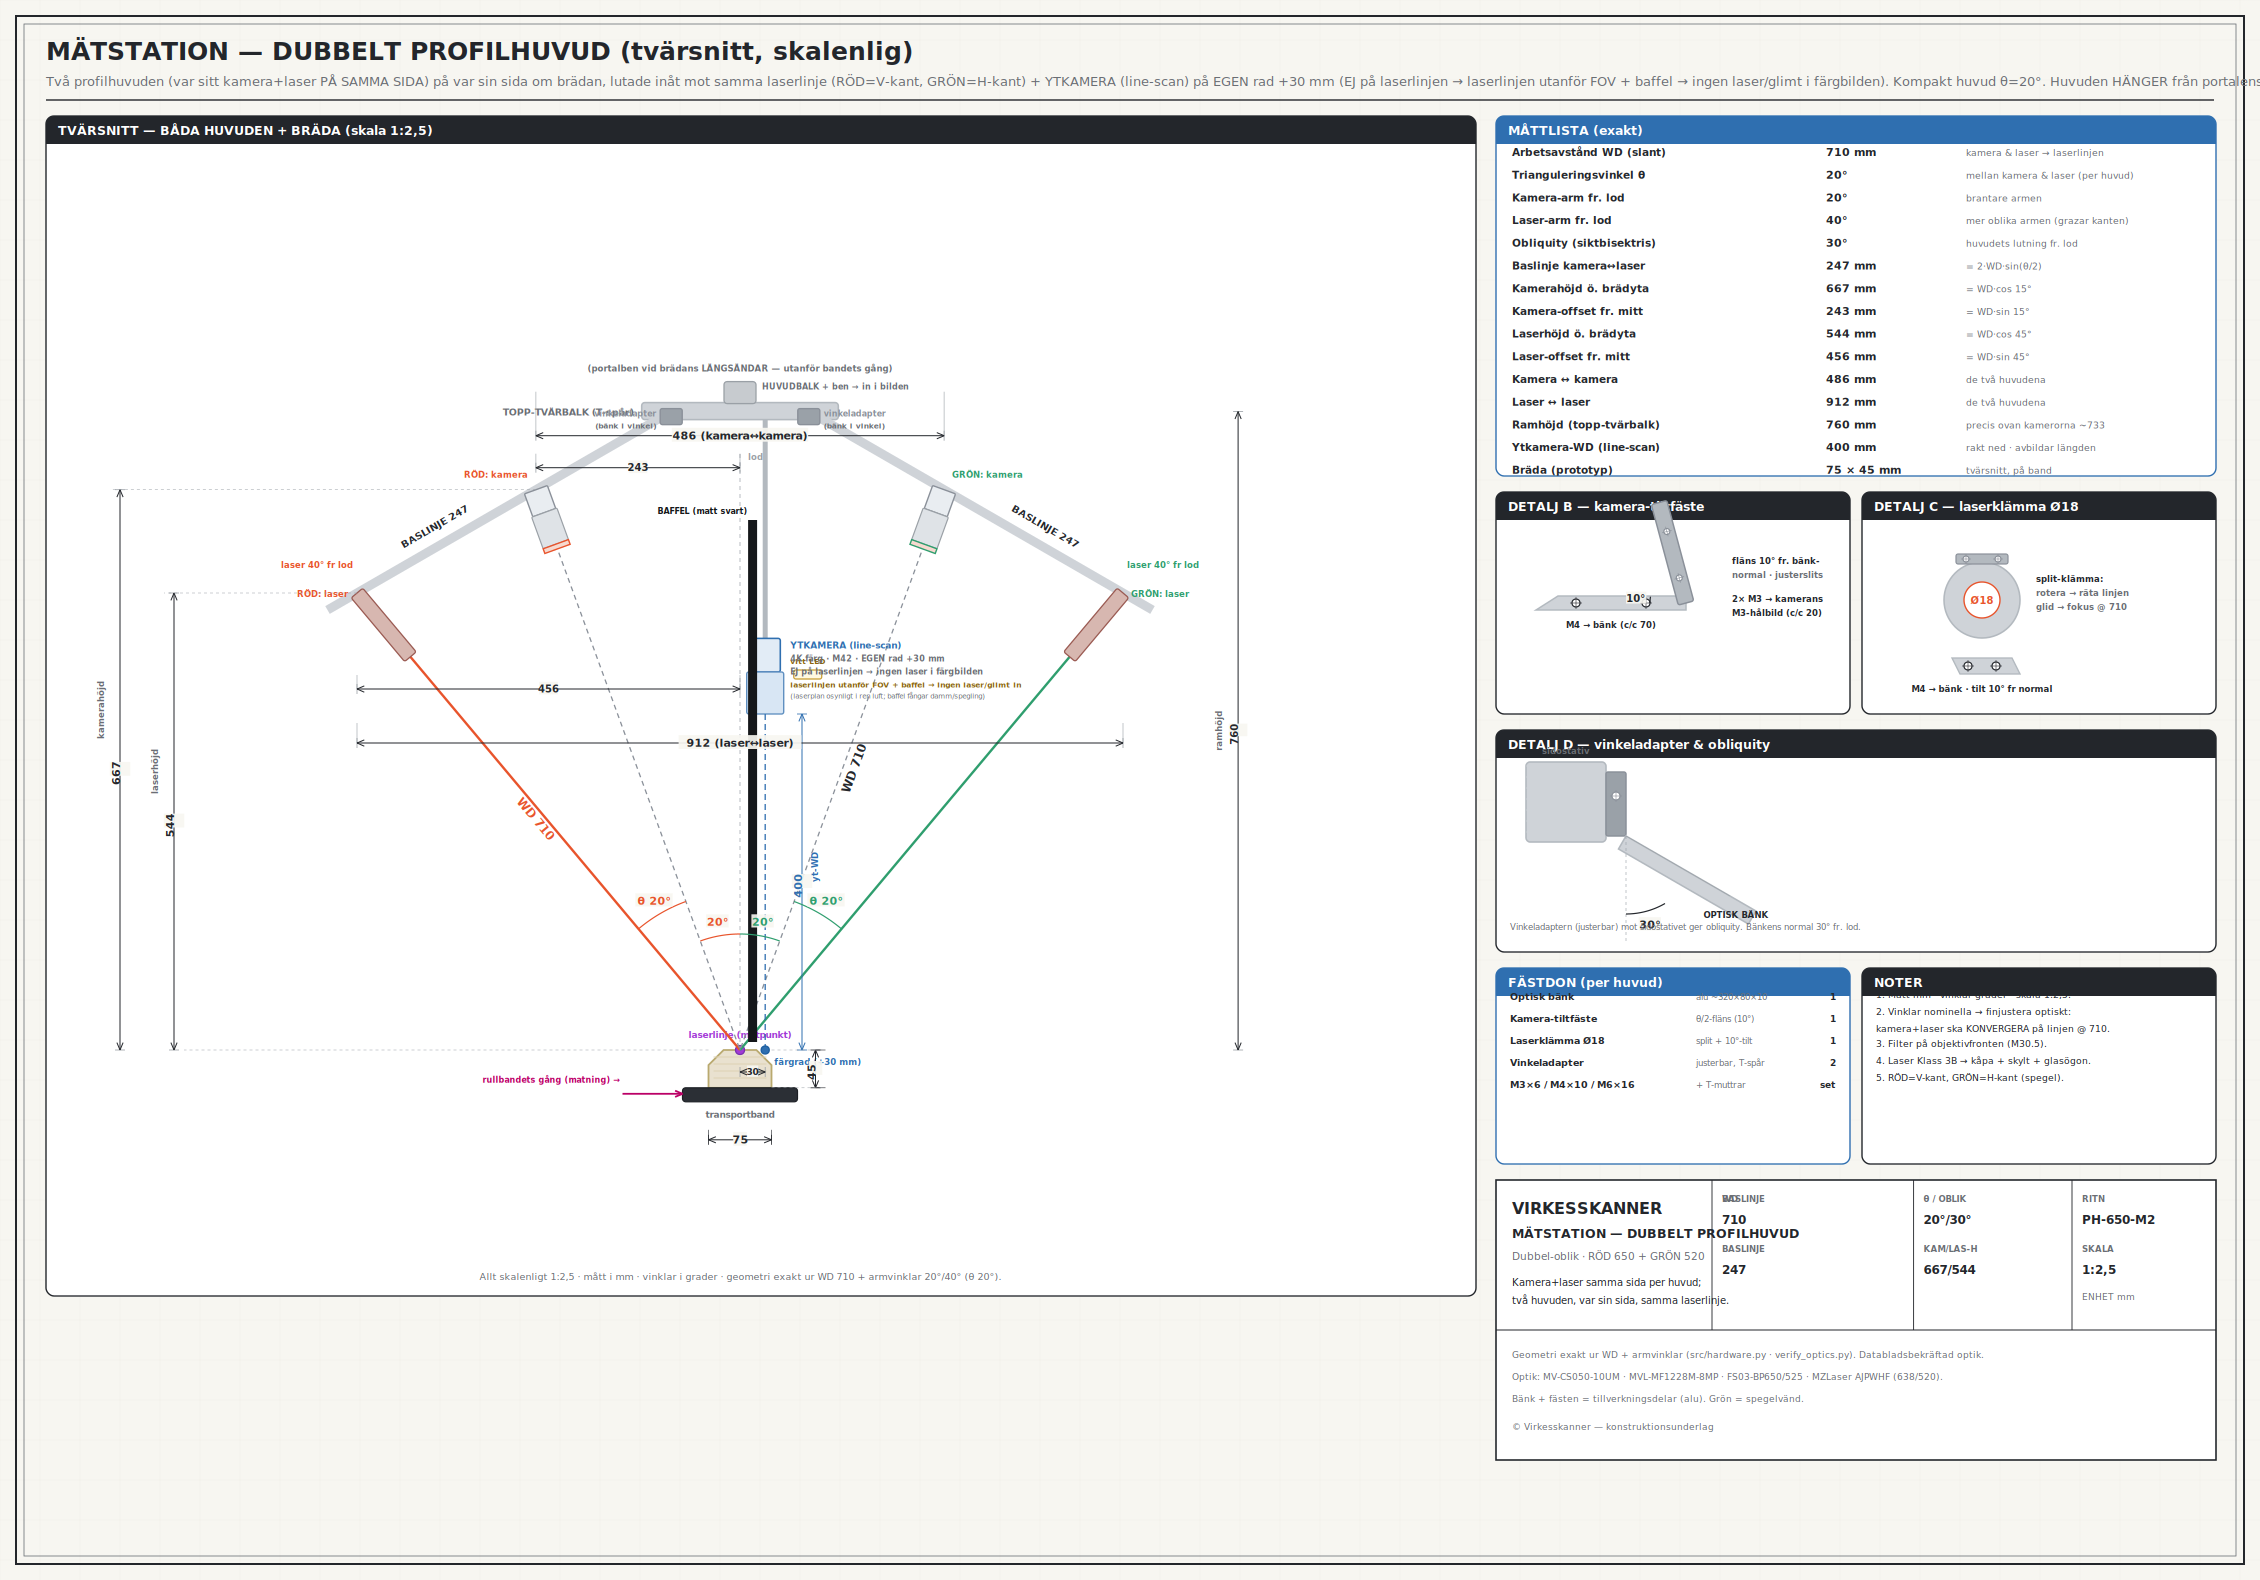
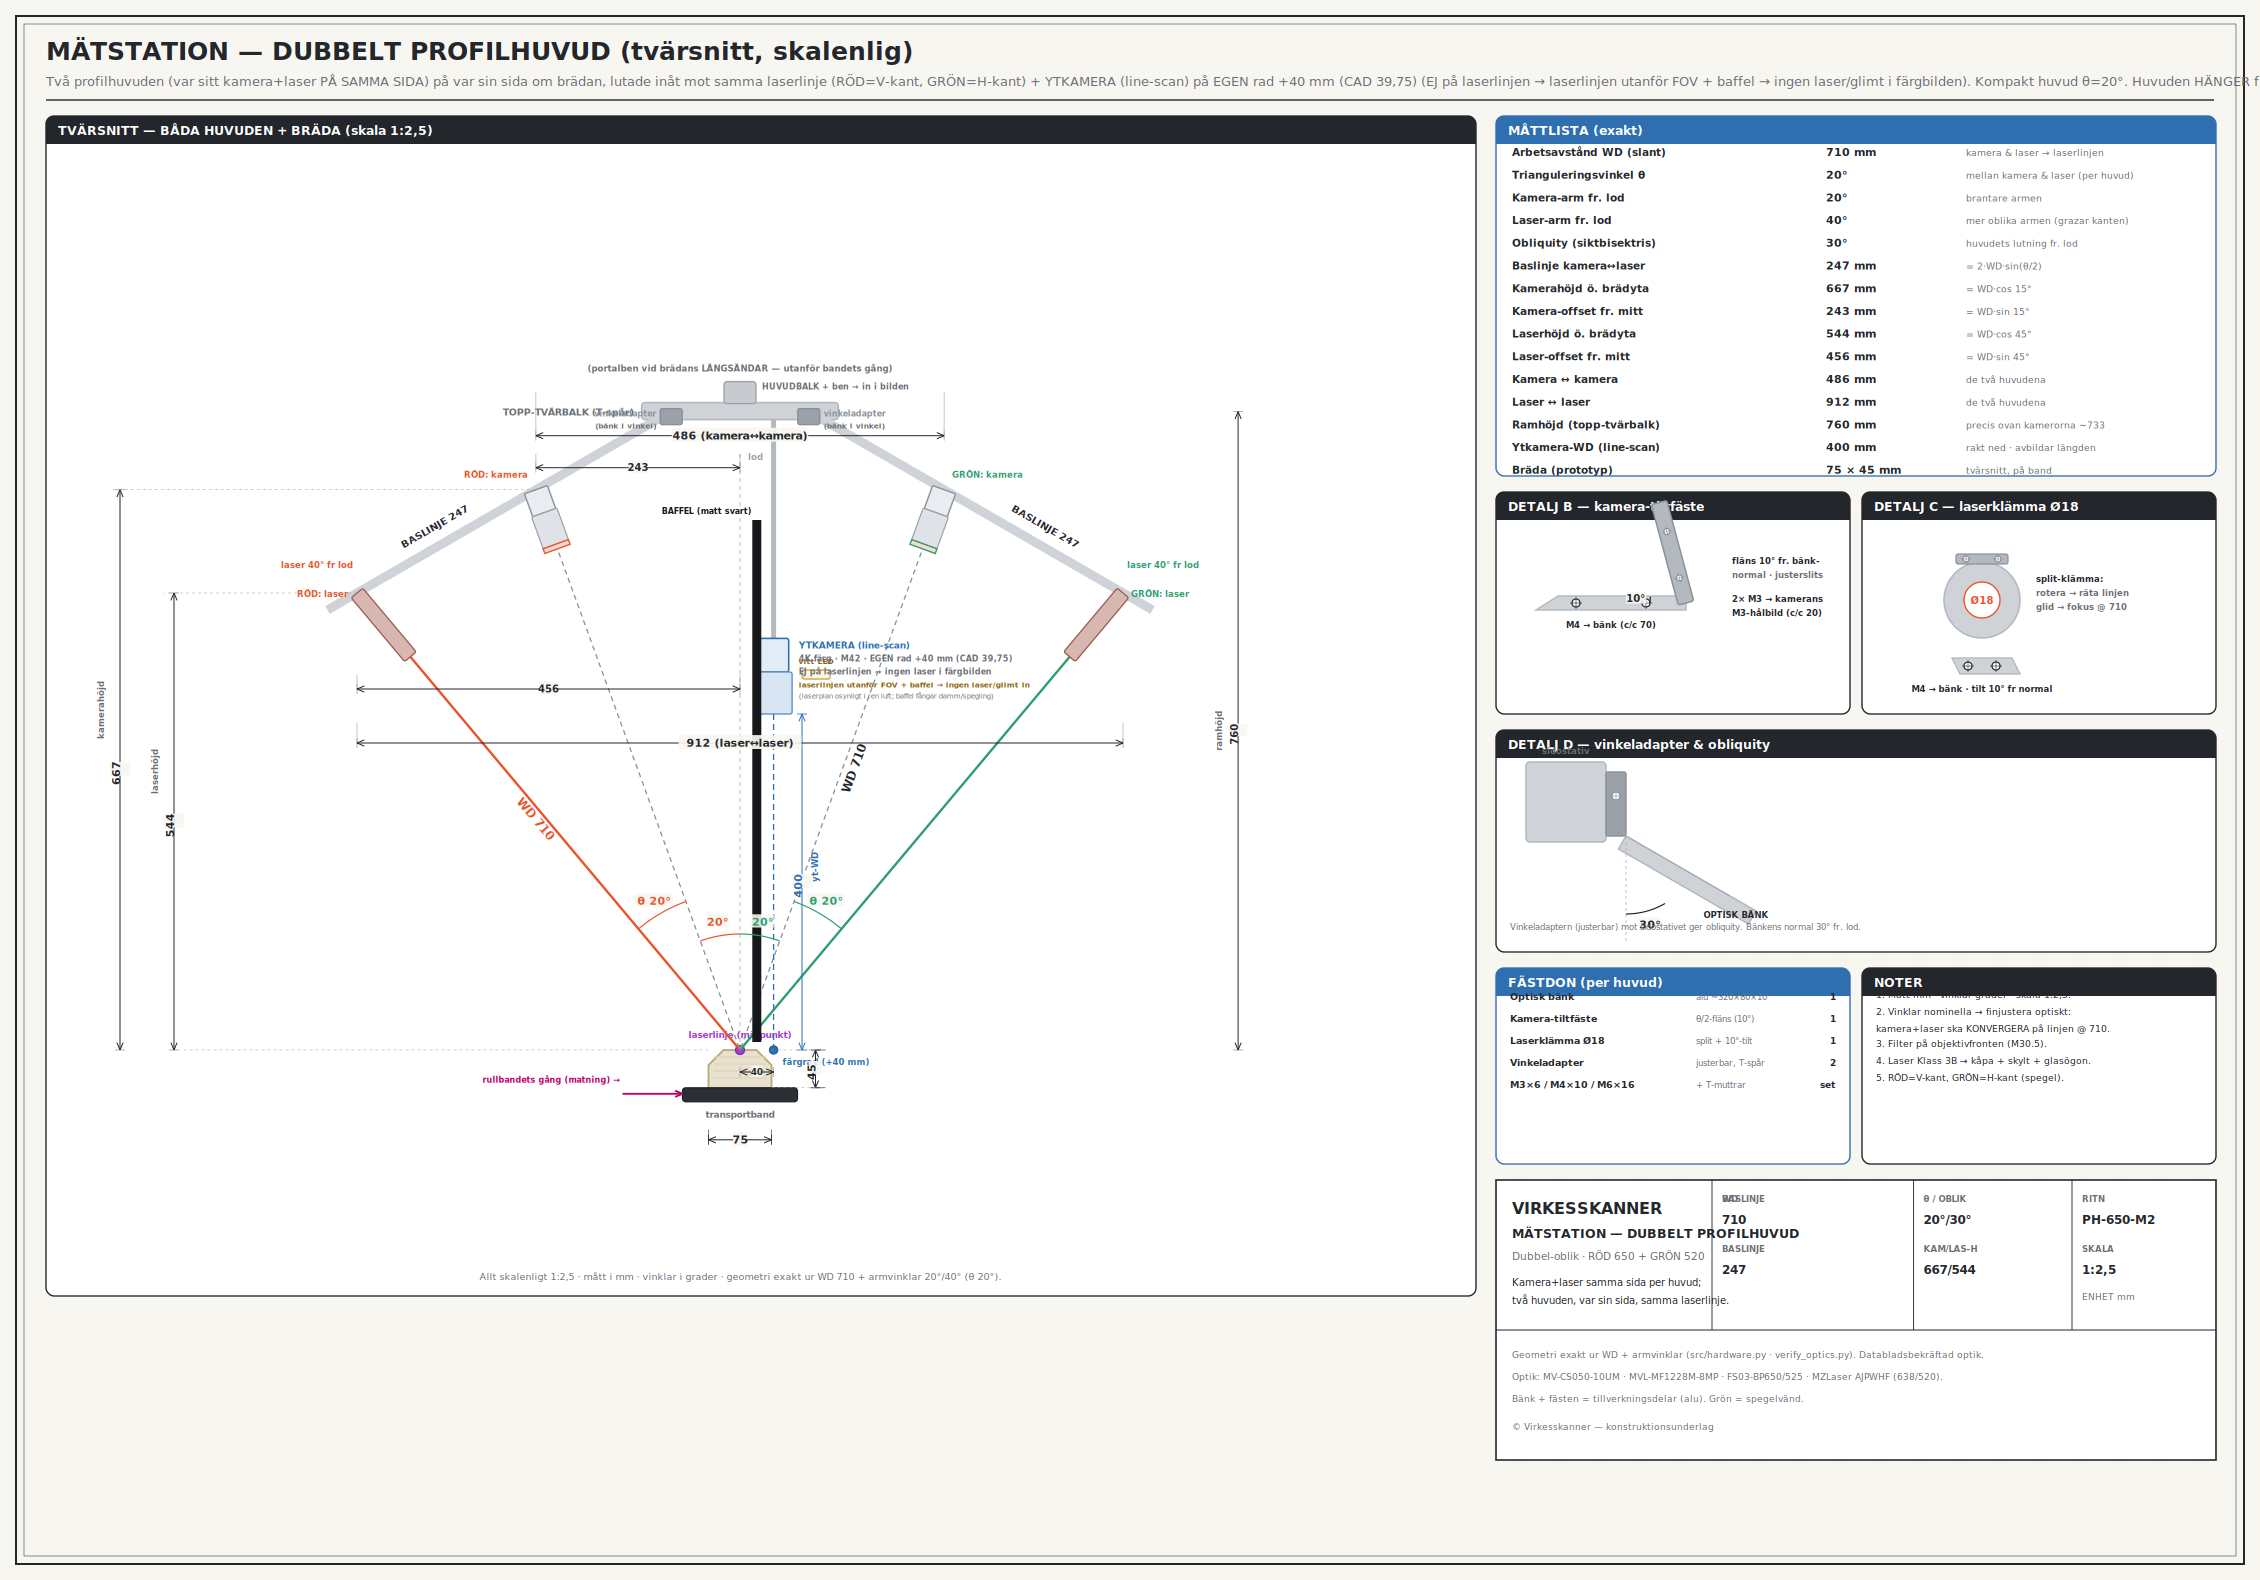
Färg-linjekamera-offset 30 → 40 mm (CAD som-byggt 39,75)
Användaren ökade ytkamerans offset från 30 till 39,75 mm i CAD för bättre
fäste/baffel-plats — bara bättre (mer marginal från laserlinjen + obliqua
strålar). Uppdaterat head-mech (COL_OFF 40, baffel/dim) och
position-subsystem (+40 mm, offset-mått) så ritningarna matchar CAD.

Changed region(s): [[0.3097, 0.3101, 0.4646, 0.6823], [0.5885, 0.031, 1.0, 0.062]]

diff --git a/tools/draw_head_mech.py b/tools/draw_head_mech.py
@@ -92,7 +92,7 @@ add('</g>')
 rect(16, 16, W-32, H-32, "none", INK, 2); rect(24, 24, W-48, H-48, "none", MUTED, 0.8)
 txt(46, 60, "MÄTSTATION — DUBBELT PROFILHUVUD  (tvärsnitt, skalenlig)", 25, "start", INK, 700, SANS)
 txt(46, 86, "Två profilhuvuden (var sitt kamera+laser PÅ SAMMA SIDA) på var sin sida om brädan, lutade inåt mot samma laserlinje "
-            "(RÖD=V-kant, GRÖN=H-kant) + YTKAMERA (line-scan) på EGEN rad +30 mm (EJ på laserlinjen → laserlinjen utanför FOV + baffel → ingen laser/glimt i färgbilden). Kompakt huvud θ=20°. Huvuden HÄNGER från portalens tvärbalk via VINKELADAPTER (åt var sin sida).", 13, "start", MUTED, 400, SANS)
+            "(RÖD=V-kant, GRÖN=H-kant) + YTKAMERA (line-scan) på EGEN rad +40 mm (CAD 39,75) (EJ på laserlinjen → laserlinjen utanför FOV + baffel → ingen laser/glimt i färgbilden). Kompakt huvud θ=20°. Huvuden HÄNGER från portalens tvärbalk via VINKELADAPTER (åt var sin sida).", 13, "start", MUTED, 400, SANS)
 line(46, 100, W-46, 100, INK, 1.4)
 
 # =================================================================== HUVUD-GA (skalenlig)
@@ -166,7 +166,7 @@ txt(glas[0]+8, glas[1]+4, "GRÖN: laser", 8.5, "start", GRN, 700)
 
 # ---- LINJEKAMERA (ytkamera) — EGEN rad, FÖRSKJUTEN +30 mm (EJ på laserlinjen) ----
 SURF_WD = 400
-COL_OFF = 30                                          # mm: färgraden förskjuten i feed (Y)
+COL_OFF = 40                                          # mm: färgraden förskjuten i feed (Y); CAD som-byggt 39,75
 lc = WS(COL_OFF, SURF_WD)                             # över färgraden, inte över laserlinjen
 cp = WS(COL_OFF, 0)                                   # färgkamerans EGNA mätpunkt på brädytan
 lcw, lcl, lld, lll = 36, 40, 44, 50                   # kamera-hus + M42-objektiv (mm)
@@ -176,12 +176,12 @@ rect(-lcw*S/2, -(lcl+lll)*S, lcw*S, lcl*S, "#e2ecf6", BLUE, 1.6, 2)        # kam
 rect(-lld*S/2, -lll*S, lld*S, lll*S, "#d8e6f4", "#5f8fc0", 1.4, 2)         # M42-objektiv
 add('</g>')
 line(lc[0], lc[1], cp[0], cp[1], BLUE, 1.3, "6 4")                        # siktlinje till EGEN rad (ej laserlinjen)
-circ(cp[0], cp[1], 4, BLUE, "#1d5fa0", 1.4); txt(cp[0]+9, cp[1]+15, "färgrad (+30 mm)", 8.5, "start", BLUE, 700)
+circ(cp[0], cp[1], 4, BLUE, "#1d5fa0", 1.4); txt(cp[0]+9, cp[1]+15, "färgrad (+40 mm)", 8.5, "start", BLUE, 700)
 hdim(Ox, cp[0], Oy+22, f"{COL_OFF}", DIMC, 9)                              # offset laserlinje → färgrad
 rect(lc[0]+lld*S/2+10, lc[1]-lll*S-2, 28, 9, "#fff8e0", "#c9a13a", 1.3, 2) # vit LED-list
 txt(lc[0]+lld*S/2+24, lc[1]-lll*S-8, "vitt LED", 7.5, "middle", "#8a6510", 700)
 txt(lc[0]+lcw*S/2+10, lc[1]-(lcl+lll)*S+10, "YTKAMERA (line-scan)", 9, "start", BLUE, 700)
-txt(lc[0]+lcw*S/2+10, lc[1]-(lcl+lll)*S+23, "4K färg · M42 · EGEN rad +30 mm", 8, "start", MUTED, 700)
+txt(lc[0]+lcw*S/2+10, lc[1]-(lcl+lll)*S+23, "4K färg · M42 · EGEN rad +40 mm (CAD 39,75)", 8, "start", MUTED, 700)
 txt(lc[0]+lcw*S/2+10, lc[1]-(lcl+lll)*S+36, "EJ på laserlinjen → ingen laser i färgbilden", 8, "start", MUTED, 700)
 vdim(Oy, lc[1], Ox+62, f"{SURF_WD}", BLUE, 11); txt(Ox+78, (Oy+lc[1])/2, "yt-WD", 8.5, "start", BLUE, 700, rot=-90)
 # ---- BAFFEL (matt svart fena) mellan laserplanet och färgkamerans lins ----

diff --git a/tools/draw_position_subsystem.py b/tools/draw_position_subsystem.py
@@ -15,7 +15,7 @@ WD, CAM_A, LAS_A = 710.0, 20.0, 40.0
 camZ, camY = round(WD*math.cos(math.radians(CAM_A))), round(WD*math.sin(math.radians(CAM_A)))  # 667,243
 lasZ, lasY = round(WD*math.cos(math.radians(LAS_A))), round(WD*math.sin(math.radians(LAS_A)))  # 544,456
 BL, BWF = 500, 75
-LR_LEAD, COL_OFF = 45, 30
+LR_LEAD, COL_OFF = 45, 40        # COL_OFF: färgkamera-offset (CAD som-byggt 39,75)
 LRX = (60, 250, 440)
 
 INK, MUTED, DIM = "#23262b", "#6a6e74", "#9aa0a6"
@@ -91,11 +91,11 @@ for x in LRX: circ(PX(x), ylr, 4, CY, CY, 1); circ(PX(x), ylr, 7, "none", CY, 1)
 rect(PX(BL/2)-175, ylr-21, 350, 15, PAPER, "none", 0, op=0.95)
 txt(PX(BL/2), ylr-10, "3× LR400 · −45 mm — tjocklek-ankare (+ kant/skevhet)", 9.5, "middle", CY, 700)
 
-# färg-linjekamera (+30 mm)
+# färg-linjekamera (+40 mm)
 ycol = PY(COL_OFF)
 line(bx0, ycol, bx1, ycol, BLUE, 1.6, dash="3 3")
 rect(PX(BL/2)-165, ycol+8, 330, 15, PAPER, "none", 0, op=0.95)
-txt(PX(BL/2), ycol+20, "FÄRG-LINJEKAMERA · +30 mm — ren färg (+ 2× vitljus)", 9.5, "middle", BLUE, 700)
+txt(PX(BL/2), ycol+20, "FÄRG-LINJEKAMERA · +40 mm — ren färg (+ 2× vitljus)", 9.5, "middle", BLUE, 700)
 
 # encoder-mäthjul mot bandet (inkrement)
 ex = bx0-175
@@ -112,7 +112,7 @@ def vd(y1,y2,lbl):
     arrow(xd,(y1+y2)/2,xd,y1,DIM,1); arrow(xd,(y1+y2)/2,xd,y2,DIM,1)
     line(xd-5,y1,xd+5,y1,DIM,0.8); line(xd-5,y2,xd+5,y2,DIM,0.8)
     rect(xd-52,(y1+y2)/2-9,46,18,PAPER,"none",0,op=0.95); txt(xd-29,(y1+y2)/2+5,lbl,9.5,"middle",INK,700,MONO)
-vd(ylr, YC, "45"); vd(YC, ycol, "30")
+vd(ylr, YC, "45"); vd(YC, ycol, "40")
 txt(PX(10), by1+18, "0", 9, "start", MUTED); txt(PX(BL-10), by1+18, "500 mm (X)", 9, "end", MUTED)
 
 # noter
@@ -122,7 +122,7 @@ notes = [
  "NOLLA = FAST ANHÅLL + FOTOCELL i bakkant. Lägg brädans bakkant mot anhållet → fotocellen ser anslag → encodern NOLLAS. Anhållet kvadrar dessutom brädan (ingen skevhet vid iladdning).",
  "ABSOLUT POSITION = encoder-inkrement (mäthjul mot bandet, dubbelriktad) räknat FRÅN anhålls-nollan. Stabil eftersom nollan är ett mekaniskt anslag du alltid kan återgå till.",
  "DUBBELRIKTAT: kör fram (encoder räknar upp), backa tillbaka (räknar ned). Når du anhållet igen → fotocell → AUTO-OMNOLLNING. Driftfri, repeterbar nolla varje cykel.",
- "Tre RADER nedström: LR400 −45 mm (tjocklek-ankare/kant/skevhet) · laserlinje 0 (profil, röd+grön) · färgkamera +30 mm (ren färg, ingen laser). Sys ihop via encoderpositionen.",
+ "Tre RADER nedström: LR400 −45 mm (tjocklek-ankare/kant/skevhet) · laserlinje 0 (profil, röd+grön) · färgkamera +40 mm (ren färg, ingen laser). Sys ihop via encoderpositionen.",
  "Huvudens exakta geometri (WD 710, kam 20°/Z667/Y243, laser 40°/Z544/Y456, θ20°, vankant, ytkamera) finns i head-mech.svg (tvärsnittet). Mäthjul mäter bandet → slir mildras med griff + mjukvarukant-korr.",
 ]
 for i,l in enumerate(notes):
